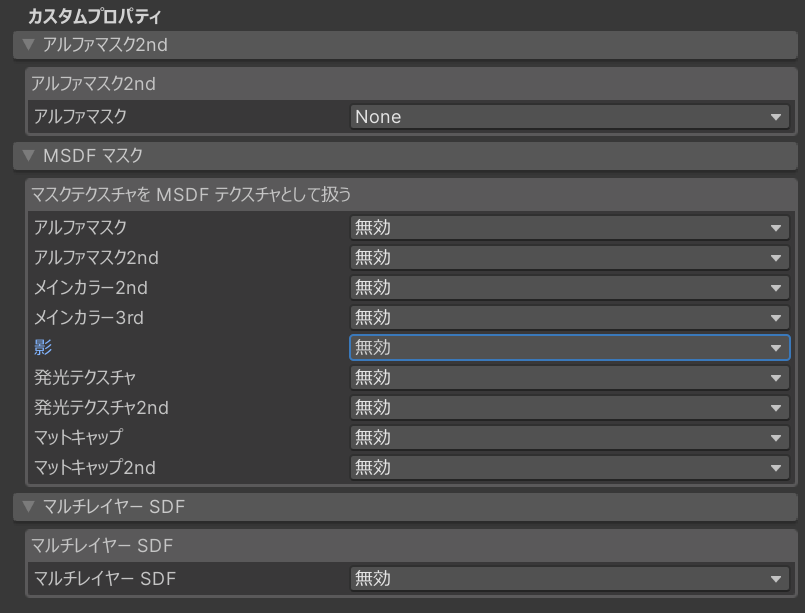
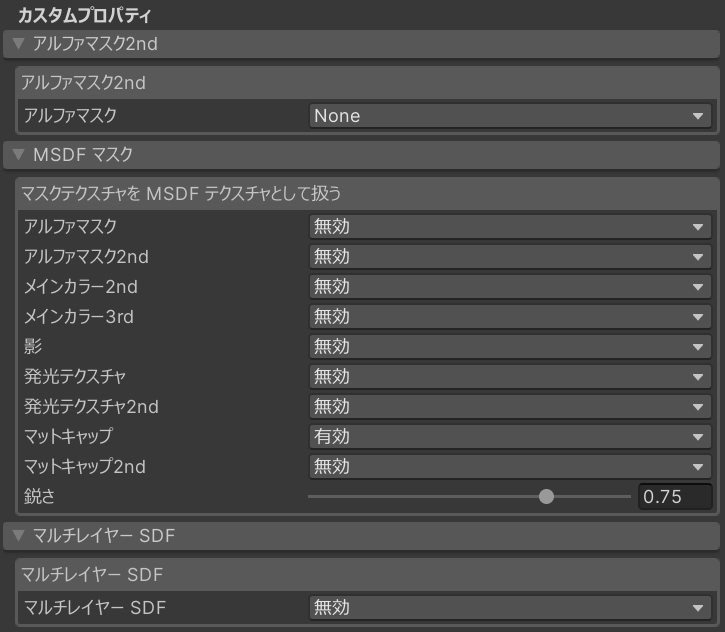
Update MsdfMask custom properties image

diff --git a/content/shader/liltoon-msdfmask/_index.md b/content/shader/liltoon-msdfmask/_index.md
@@ -46,6 +46,9 @@ MSDF の詳細については [Chlumsky/msdfgen](https://github.com/Chlumsky/msd
 
 例えばメインカラー 2nd の項目を「有効」に設定した場合、メインカラー 2nd のマスクテクスチャの部分が通常のグレースケールではなく MSDF としてサンプリングされマスクに適用されます。
 
+**鋭さ** パラメーターはマスク境界のアンチエイリアスの鋭さを指定します。値が大きいほど境界が急峻になり、1 に設定すると完全に二値のみとるようになります(HLSL 的には step 関数と同等になります)。
+描画領域に対して MSDF テクスチャの UV 密度が極めて低い場合、計算精度により境界が階段状のグラデーションになってしまうことがあります。その場合、値をより大きくしてください。
+
 **lilToon の標準設定にあるメインカラー 2nd/3rd の「MSDF デカール」はメインカラーテクスチャの解釈が MSDF になるものであり、このカスタム機能で設定するのはマスクテクスチャの解釈です。**
 
 ### マルチレイヤー SDF
